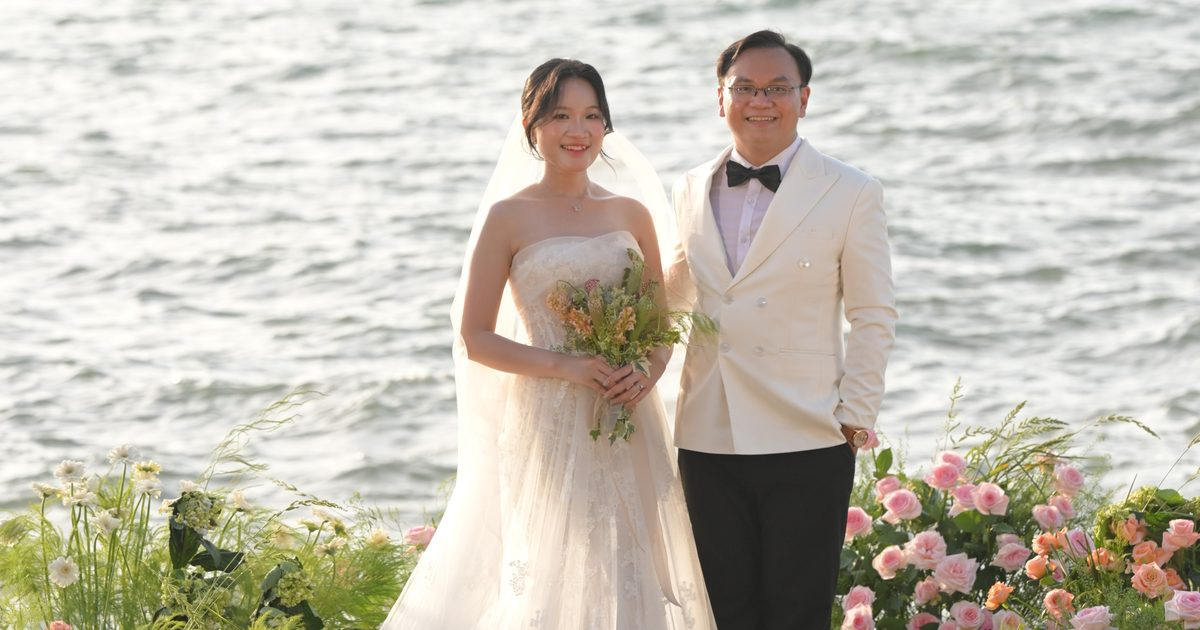
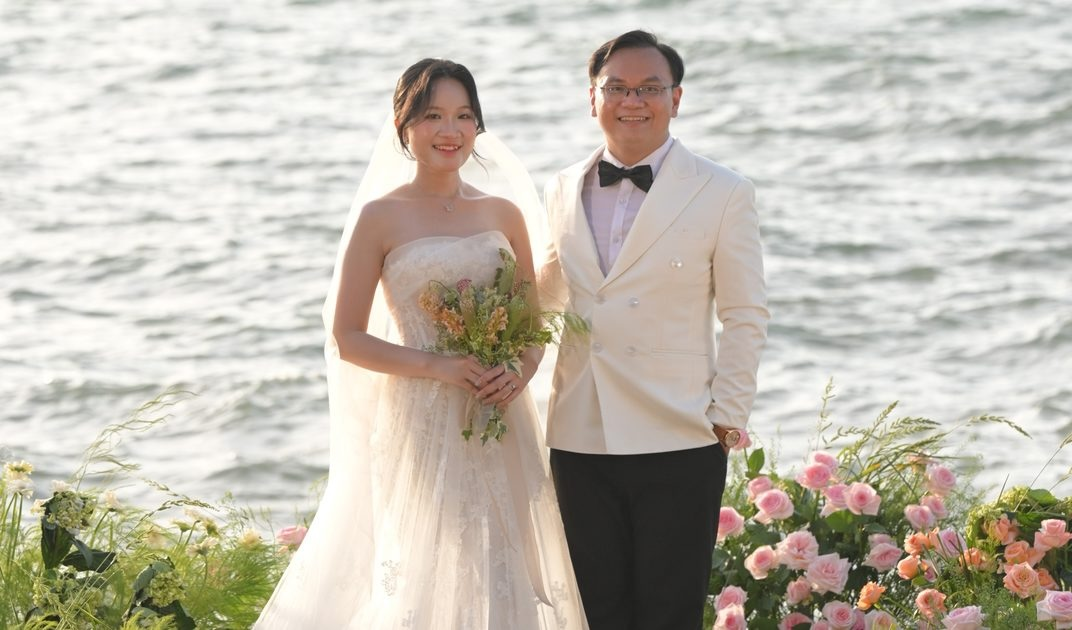
Update og-cover (new 1072x630 crop) and sync declared OG dimensions

diff --git a/pages/index.jsx b/pages/index.jsx
@@ -12,7 +12,7 @@ const InvitationApp = dynamic(() => import('../components/app/InvitationApp'), {
 });
 
 const SITE_URL = 'https://phat-duyen-wedding.vercel.app';
-const OG_IMAGE = `${SITE_URL}/assets/images/og-cover.jpg`; // 1200x630, generated from the cover photo
+const OG_IMAGE = `${SITE_URL}/assets/images/og-cover.jpg`; // 1072x630, cropped from the cover photo
 const TITLE = 'Hữu Phát & Mỹ Duyên — Thiệp cưới · 07.11.2026';
 const DESCRIPTION =
   'Trân trọng kính mời bạn đến dự lễ cưới của Hữu Phát & Mỹ Duyên — Thứ Bảy, 07/11/2026, 18:30, Sảnh BallRoom, Tầng 3 Khách sạn Caravelle.';
@@ -83,7 +83,7 @@ export default function ReactInvitation() {
         <meta property="og:image" content={OG_IMAGE} />
         <meta property="og:image:secure_url" content={OG_IMAGE} />
         <meta property="og:image:type" content="image/jpeg" />
-        <meta property="og:image:width" content="1200" />
+        <meta property="og:image:width" content="1072" />
         <meta property="og:image:height" content="630" />
         <meta property="og:image:alt" content="Hữu Phát & Mỹ Duyên" />
         <meta property="og:locale" content="vi_VN" />
